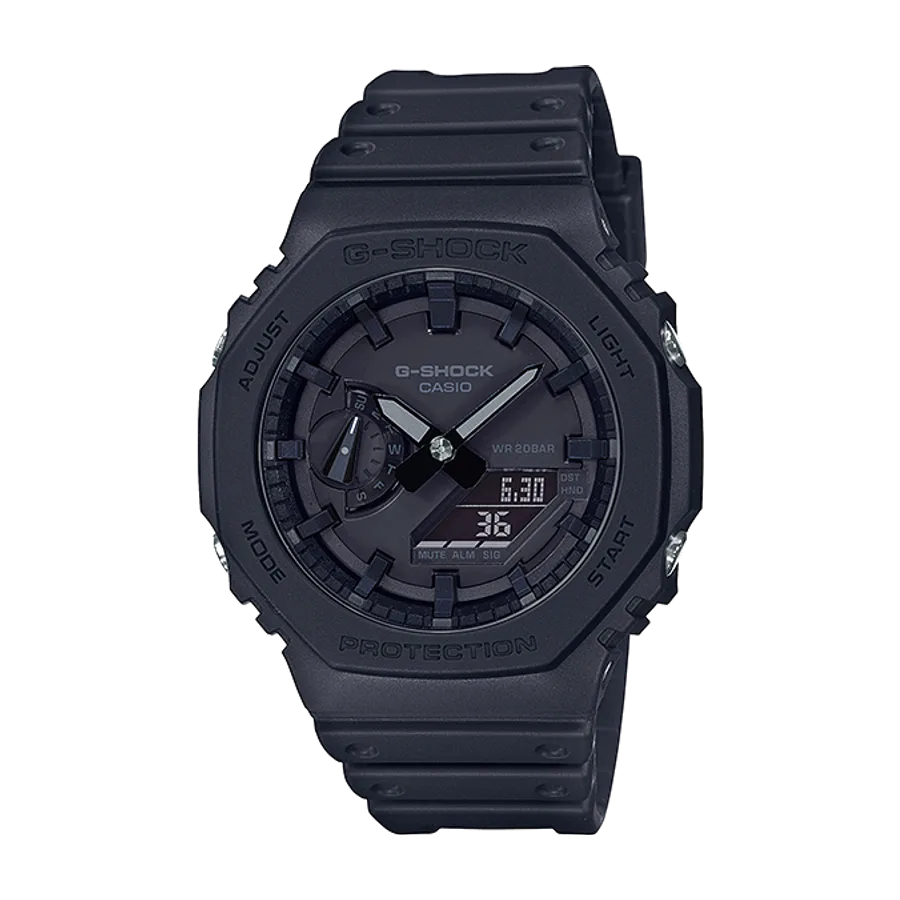
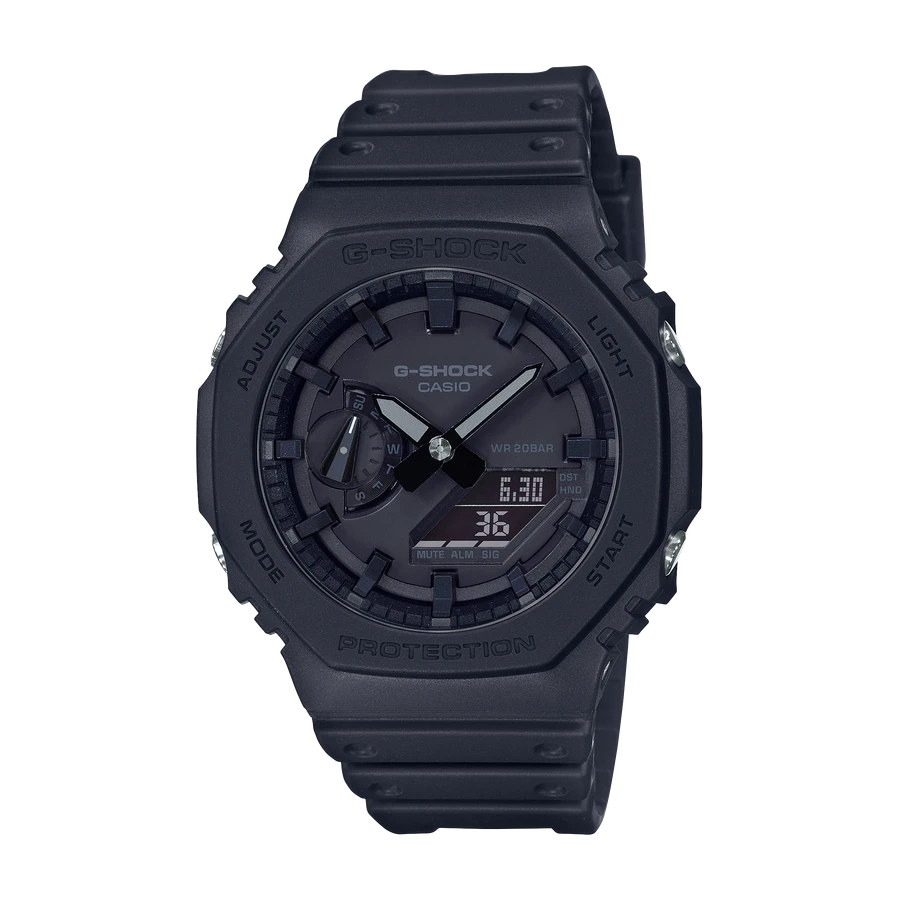
Görsel asillarini arsivle, GA-2100'ü Casio'nun 2000px JP surumune çevir
ASILLAR: 24 Casio ürün görselinin 2000x2000 asli photos/originals/ altina
indirildi. Daha önce 900px WebP'ye çevirip asillari atmisim — arsiv için
durmalari gerekirdi. Adresler kullanicinin Drive tablosundaki CDN sütunundan;
envanterde source.imageOriginal alanina da geçti, scripts/fetch-originals.mjs
oradan okuyor. Depo 68 MB büyüdü, yayin 1,5 MB kaldi (build atliyor).

Yol kalibini tahmin etmek ise yaramiyor: yerel, klasör harflerinin
büyük/küçüklügü ve _Seq ekleri modelden modele degisiyor — kurdugum kalip
24 modelin ancak 4 tanesinde tuttu. Tabloda hepsi yaziliymis.

GA-2100: kullanicinin bildirdigi düsük çözünürlük Casio kaynakli — o model
tr/intl/in/europe yerellerinde 500x600 yayimlaniyor. jp yerelinde _Seq01 eki
olmayan gerçek 2000x2000 sürüm var; onu kullandim. Kullanicinin Photoshop
büyütmesiyle karsilastirdim: ayni ölçüde ama yazilar ve LCD yumusak kaliyor,
Casio'nun asli daha net.

Claude-Session: https://claude.ai/code/session_01DDidaivs2B3H4tBARHLYJm

diff --git a/CLAUDE.md b/CLAUDE.md
@@ -86,6 +86,30 @@ varyanta mal etme (F-91W 1989 ≠ Pac-Man sürümü 2024).
 **ABD sitesi (`/us/`):** ürün başlığında renk adı var, teknik tablo JS ile
 yükleniyor — okunamıyor.
 
+### Ürün görselleri — adresler TABLODA yazılı
+
+**Önce Drive tablosunun CDN sütununa bak.** Her saatin resmi görsel adresi
+orada; envanterde `source.imageOriginal` alanına da geçirildi. Bunu atlayıp
+yol kalıbını türetmeye çalışmak vakit kaybı: yol modelden modele değişiyor —
+yerel (`tr/tr`, `jp/ja`, `in/en`, `europe/en-gb`, `ca/en`), klasör
+harflerinin büyük/küçüklüğü ve dosya adındaki `_Seq01` / `_Seq1` ekleri
+tutarsız. Kalıbı kurmayı denedim, 24 modelin **ancak 4 tanesinde** tuttu.
+
+**Erişim:** ürün sayfası curl ile **403** veriyor (Akamai), CDN varlıkları
+**200**. Yani sayfayı WebFetch okur, görseli curl indirir. TR sayfası JS ile
+yüklendiği için okunamıyor ama **TR CDN varlıkları gayet çalışıyor**.
+
+**Aynı model yerele göre farklı çözünürlükte olabiliyor:** GA-2100-1A1
+`tr` / `intl` / `in` / `europe` yerellerinde 500×600, **`jp` yerelinde
+2000×2000**. Yeni saat eklerken jp yerelini de dene. Kullanıcı bu yüzden
+GA-2100 görselini Photoshop ile büyütmüştü; Casio kendi 2000 pikselliği daha
+iyi çıktı (büyütmede yazılar ve LCD yumuşuyor).
+
+Dönüşüm eki (`.transform/main-visual-pc/image.png`) 408×408 veriyor —
+**eki at**, düz `.png` asıl boyutu getiriyor (çoğunda 2000×2000).
+
+Asıllar `photos/originals/` altında: depoda 68 MB, yayında 0 (build atlıyor).
+
 ### Doldurulma durumu (30 Ağustos 2026)
 
 Envanterde artık **25 saat** var — MRS-301 eklendi.
@@ -247,3 +271,4 @@ metinler (`tagline`, `story`) `{ en, tr }` biçiminde. Arayüz şu an tek dil
 | `node scripts/log-wear.mjs "<saat>" [tarih] ["not"]` | Rotasyon kaydı ekler |
 | `node scripts/build.mjs [--private]` | `dist/` hazırlar (hassas alanları siler) |
 | `node scripts/normalize-photo.mjs <girdi> <çıktı.webp>` | Fotoğrafın fonunu siler, 900×900 WebP yazar (`npm i sharp` gerekir) |
+| `node scripts/fetch-originals.mjs [--force]` | Görsel asıllarını `photos/originals/` altına indirir |
